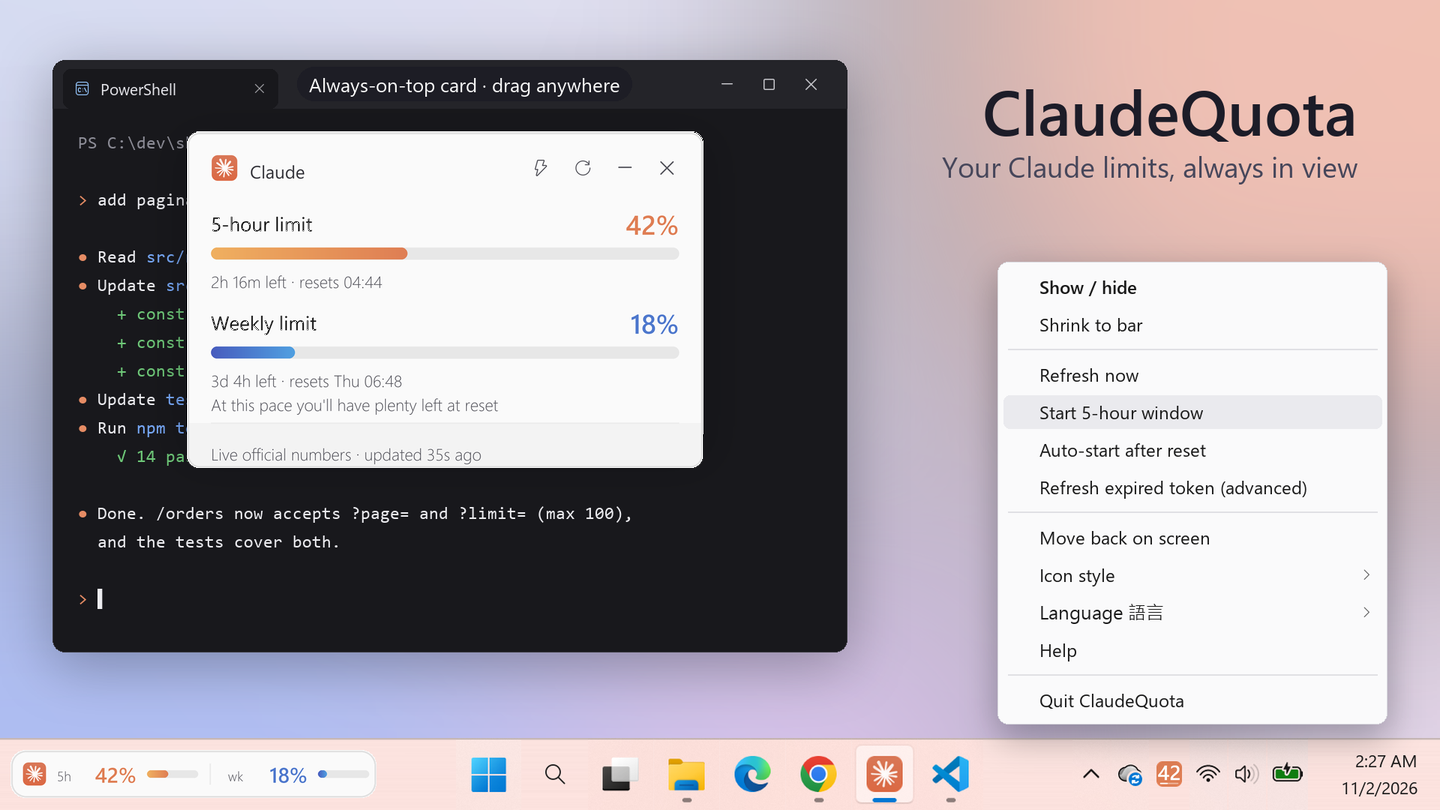
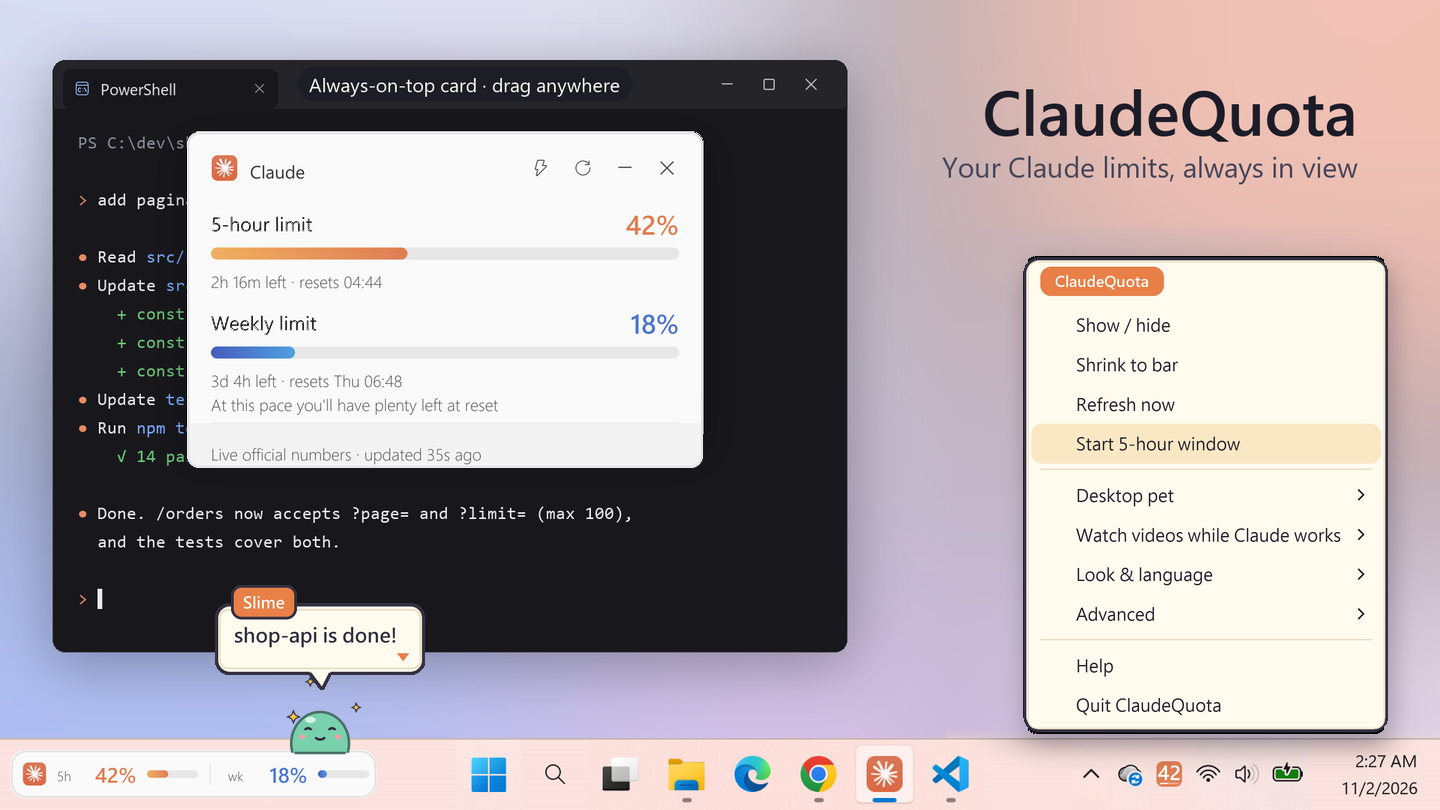
List every running session when you click the pet; README images show the pet and themed menu

Changed region(s): [[0.6875, 0.3086, 0.9688, 0.9259], [0.125, 0.7099, 0.3125, 0.9568]]

diff --git a/i18n.py b/i18n.py
@@ -121,6 +121,10 @@ STRINGS: dict[str, dict[str, str]] = {
     "pet.say.done": {"zh": "{who} 做完了！", "en": "{who} is done!"},
     "pet.say.error": {"zh": "{who} 出錯了…", "en": "{who} hit an error…"},
     "pet.say.idle": {"zh": "沒有進行中的工作，睡個覺", "en": "Nothing running. Nap time"},
+    "pet.say.sessions": {"zh": "現在有 {n} 個對話在動：", "en": "{n} sessions going:"},
+    "pet.say.maybe_waiting": {"zh": "好像在等你", "en": "maybe waiting for you"},
+    "pet.say.mins": {"zh": "（{min} 分鐘）", "en": " ({min} min)"},
+    "pet.say.more": {"zh": "…還有 {n} 個", "en": "…and {n} more"},
     "pet.say.others": {"zh": "（另外還有 {n} 個對話在跑）", "en": " (+{n} more running)"},
     "confirm.pet_hook.title": {"zh": "安裝 Claude Code hook？", "en": "Install a Claude Code hook?"},
     "confirm.pet_hook.body": {
@@ -288,7 +292,8 @@ STRINGS: dict[str, dict[str, str]] = {
             "■ 桌面寵物\n"
             "• 一隻跟著 Claude Code 狀態變表情的小東西：工作中、在等你允許（冒驚嘆號）、"
             "做完了（冒星星）、出錯了（頭上有烏雲）、沒事時睡覺。CLI、VS Code、桌面版的 Code 分頁都看得到\n"
-            "• 點一下：跳出對話框說明哪個專案在做什麼，再點對話框就關掉。在等你、做完、出錯時會自己冒出來講\n"
+            "• 點一下：跳出對話框說明哪個專案在做什麼（同時有好幾個對話時每個都列出來），再點對話框就關掉。"
+            "在等你、做完、出錯時會自己冒出來講\n"
             "• 睡著時點一下會叫醒它；哪種模式都可以拖到別的地方\n"
             "• 在寵物身上按右鍵：叫醒（任何時候都行）、手動改變狀態（或設回自動）、音樂開關、大小、隱藏\n"
             "• 右鍵選單「桌面寵物」：開關、叫醒、換角色（9 種）、換顏色（每個角色各記各的）、"
@@ -340,7 +345,7 @@ STRINGS: dict[str, dict[str, str]] = {
             "• A little creature that reacts to Claude Code: working, waiting for your permission (a \"!\"), "
             "done (sparkles), error (a rain cloud), and asleep when nothing's running. Sees the CLI, VS Code and "
             "the desktop app's Code tab\n"
-            "• Click it for a dialog saying which project is doing what; click the dialog to close it. It speaks "
+            "• Click it for a dialog saying which project is doing what (every session, when several are running); click the dialog to close it. It speaks "
             "up by itself when Claude is waiting, done or hits an error\n"
             "• Click it while it sleeps to wake it up; drag it anywhere in any mode\n"
             "• Right-click the pet: wake it up (any time), set its state by hand (or back to automatic), music "

diff --git a/widget.py b/widget.py
@@ -1615,7 +1615,8 @@ class PetWindow(FloatWindow):
         elif self.shown_state() == "idle":
             self.wake()
         else:
-            self.say(self.describe(), PET_BUBBLE_MS)
+            text = self.describe(full=True)
+            self.say(text, PET_BUBBLE_MS + 1500 * text.count("\n"))  # 列得越多，留越久
 
     def _hover(self, e):
         pass
@@ -1694,8 +1695,20 @@ class PetWindow(FloatWindow):
             items += ["-", {"label": t("pet.hide"), "command": self.hide}]
         return items
 
-    def describe(self) -> str:
+    def describe(self, full: bool = False) -> str:
+        """現在的狀態說成一句話。full（點寵物時）且同時有好幾個對話在動：每個都列一行。"""
         s = self.state
+        sessions = claude_state.last_sessions
+        if full and len(sessions) >= 2:
+            lines = [t("pet.say.sessions", n=len(sessions))]
+            for x in sessions[:6]:
+                label = t("pet.say.maybe_waiting") if x.kind == "waiting" and x.guessed else t(f"pet.state.{x.kind}")
+                mins = int((time.time() - x.since) // 60) if x.kind == "working" else 0
+                sep = "：" if i18n.lang() == "zh" else ": "
+                lines.append(f"• {x.project or 'Claude'}{sep}{label}" + (t("pet.say.mins", min=mins) if mins else ""))
+            if len(sessions) > 6:
+                lines.append(t("pet.say.more", n=len(sessions) - 6))
+            return "\n".join(lines)
         who = s.project or "Claude"
         kind = s.kind
         if kind == "idle" and self.shown_state() in ("awake", "held"):

diff --git a/tests/test_pet.py b/tests/test_pet.py
@@ -63,6 +63,22 @@ hook = {"transcript": "x", "at": NOW - 2}
 check(kind(assistant(3, "tool_use", ["Bash"]), hook=hook) == "waiting", "a hook notification after the call is waiting")
 check(kind(user(1), hook=hook) == "working", "once you answer, the old notification no longer counts")
 
+# Several sessions at once: the one that needs you most comes first, and all of them are listed.
+with tempfile.TemporaryDirectory() as d:
+    for proj, entries in (("a", [user(5, "go")]), ("b", [assistant(60, "tool_use", ["Bash"])]),
+                          ("c", [assistant(30, "end_turn")])):
+        os.makedirs(os.path.join(d, proj))
+        with open(os.path.join(d, proj, "s.jsonl"), "w", encoding="utf-8") as fh:
+            for e in entries:
+                e = dict(e, cwd=f"C:\\dev\\{proj}")
+                fh.write(json.dumps(e) + "\n")
+    real_projects = cs.PROJECTS
+    cs.PROJECTS = d
+    best = cs.current(now=NOW)
+    cs.PROJECTS = real_projects
+    check(best.kind == "waiting" and best.project == "b", "the session waiting for you comes first")
+    check([s.project for s in cs.last_sessions] == ["b", "a", "c"], "every active session is listed, most urgent first")
+
 with tempfile.TemporaryDirectory() as d:
     f = os.path.join(d, "n.json")
     with open(f, "w", encoding="utf-8") as fh:

diff --git a/claude_state.py b/claude_state.py
@@ -183,9 +183,14 @@ def current(hook_file: Optional[str] = None, now: Optional[float] = None) -> Sta
     # 不再活躍的檔案不用留在快取裡
     for path in [p for p in _cache if not os.path.exists(p)]:
         del _cache[path]
-    busy = [s for s in states if s.kind != "idle"]
+    busy = sorted((s for s in states if s.kind != "idle"), key=lambda s: (PRIORITY[s.kind], s.since), reverse=True)
+    global last_sessions
+    last_sessions = busy  # 每個有在動的對話，最需要你注意的排前面（點寵物時列出來）
     if not busy:
         return State("idle")
-    best = max(busy, key=lambda s: (PRIORITY[s.kind], s.since))
+    best = busy[0]
     best.others = sum(1 for s in busy if s.kind in ("working", "waiting")) - (best.kind in ("working", "waiting"))
     return best
+
+
+last_sessions: list[State] = []

diff --git a/pet.py b/pet.py
@@ -736,7 +736,9 @@ _TAG = (232, 128, 72)
 
 
 def _wrap(text: str, font: ImageFont.FreeTypeFont, max_w: float) -> list[str]:
-    """中英混排換行：英文照單字斷，中文照字斷。"""
+    """中英混排換行：英文照單字斷，中文照字斷；文字裡的換行照樣換。"""
+    if "\n" in text:
+        return [line for part in text.split("\n") for line in _wrap(part, font, max_w)]
     lines, cur = [], ""
     for token in _tokens(text):
         trial = cur + token

diff --git a/README.md b/README.md
@@ -11,7 +11,7 @@ A small Windows tray app for Claude Pro / Max users. It shows the official usage
 
 [中文說明](#中文說明)
 
-<img src="docs/hero-en.png" alt="ClaudeQuota on a Windows 11 desktop: a floating card showing the 5-hour limit at 42% with 2h 16m left and the weekly limit at 18%, a mini bar docked on the taskbar, the tray icon showing 42, and the tray menu">
+<img src="docs/hero-en.png" alt="ClaudeQuota on a Windows 11 desktop: a floating card showing the 5-hour limit at 42% and the weekly limit at 18% with its pace, a slime pet on the mini bar saying shop-api is done, the tray icon showing 42, and the themed tray menu">
 
 ## Features
 
@@ -116,7 +116,7 @@ Interface idea inspired by [GlassQuota](https://github.com/chen10191200-hue/Glas
 
 給 Claude Pro / Max 使用者的 Windows 系統列小工具，顯示官方用量數字與 5 小時視窗的重置時間，不會再做到一半才突然撞到額度上限。
 
-<img src="docs/hero-zh.png" alt="ClaudeQuota 在 Windows 11 桌面上：置頂卡片顯示 5 小時額度 42%、剩 2 小時 16 分，每週額度 18%；放在工作列上的迷你橫條、顯示 42 的系統列圖示與右鍵選單">
+<img src="docs/hero-zh.png" alt="ClaudeQuota 在 Windows 11 桌面上：置頂卡片顯示 5 小時額度 42%、每週額度 18% 與進度提示；迷你橫條上的史萊姆說 shop-api 做完了；系統列圖示顯示 42，以及主題右鍵選單">
 
 ### 功能
 
